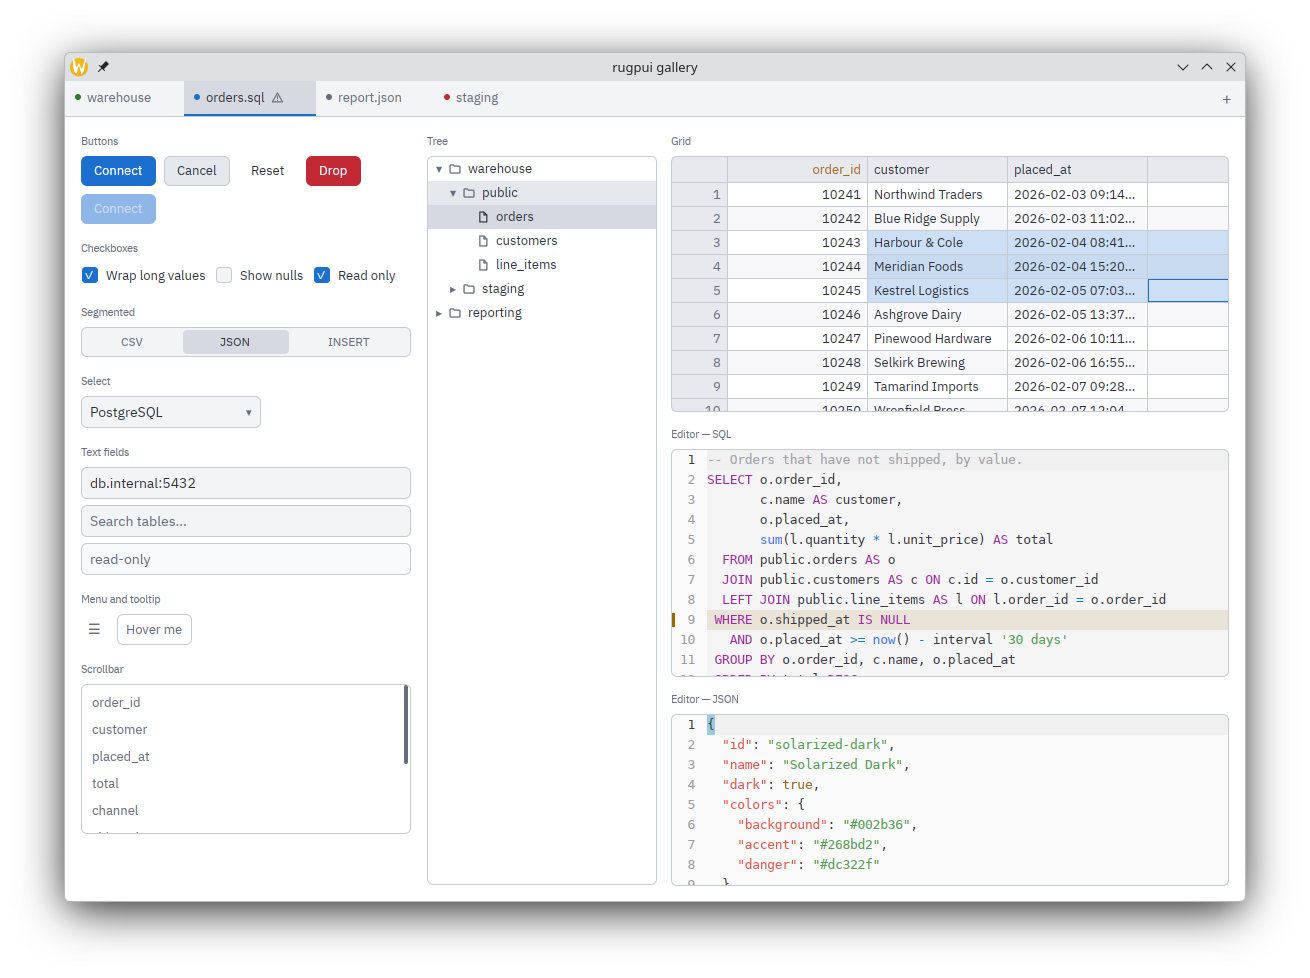
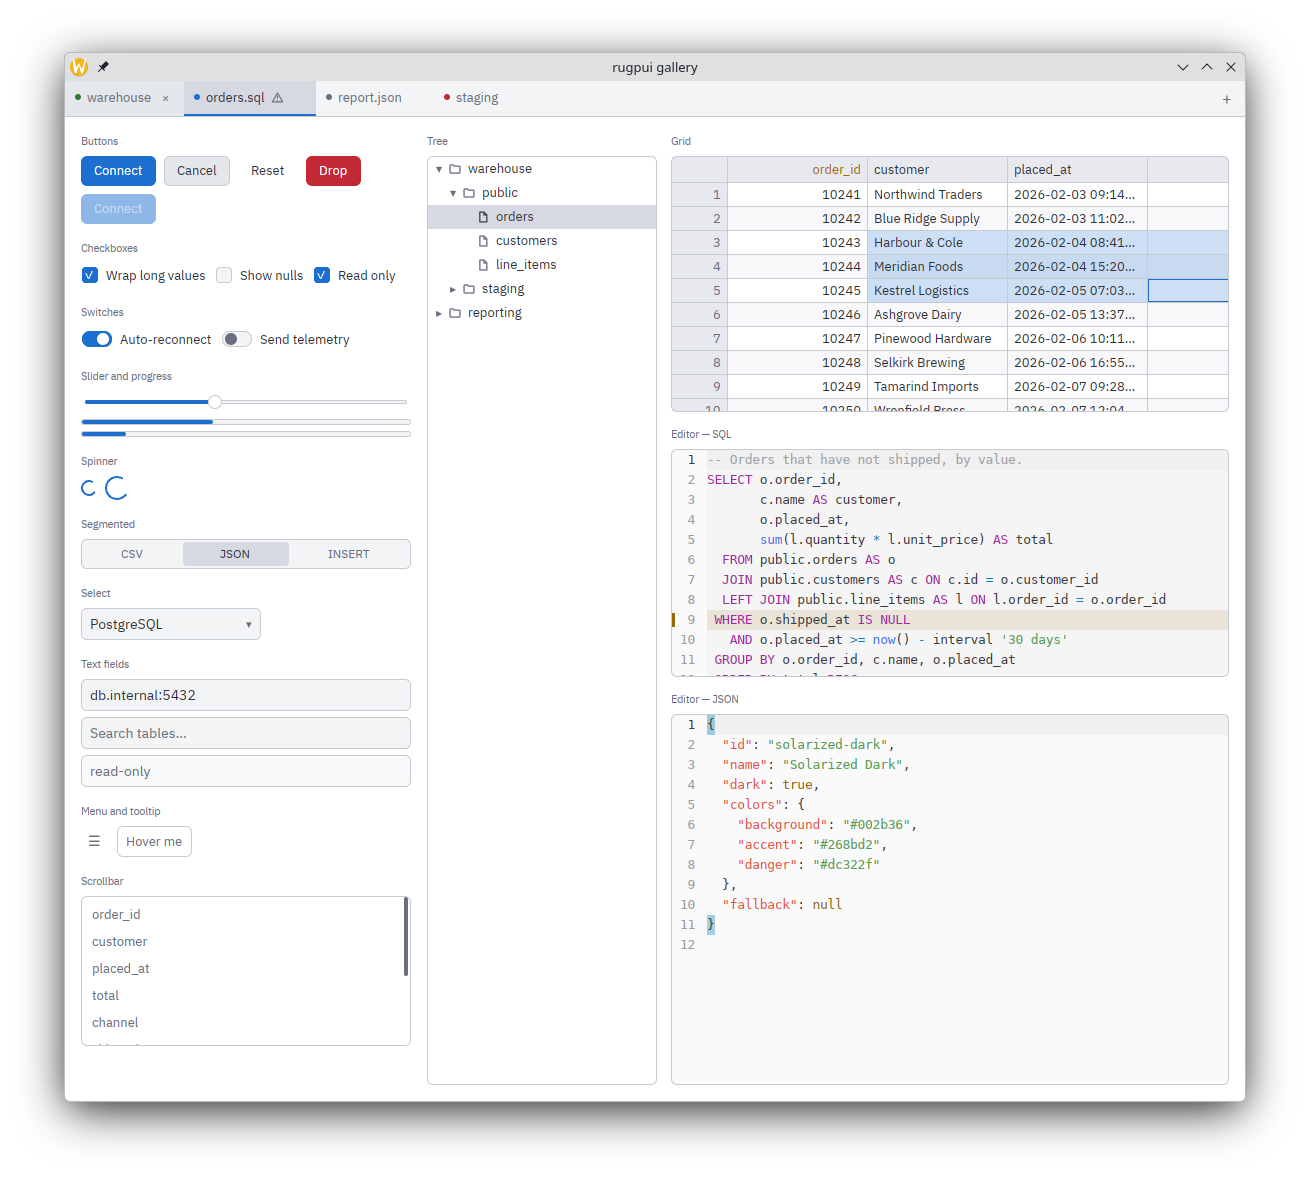
Show the new widgets in the gallery and retake the screenshots

diff --git a/crates/rugpui-gallery/src/main.rs b/crates/rugpui-gallery/src/main.rs
@@ -20,9 +20,10 @@ use gpui::{
     SharedString, TitlebarOptions, Window, WindowBounds, WindowOptions, div, prelude::*, px, size,
 };
 use rugpui::{
-    Button, ButtonVariant, Checkbox, DraggedThumb, EditorTheme, MenuButton, MenuEntry, Scrollbar,
-    ScrollbarAxis, Segmented, Select, TabBar, TabItem, TabStatus, TextInput, Theme, TreeView,
-    scroll_to, set_editor_theme, set_theme, theme, tooltip_label,
+    Button, ButtonVariant, Checkbox, DraggedThumb, EditorTheme, MenuButton, MenuEntry, ProgressBar,
+    Scrollbar, ScrollbarAxis, Segmented, Select, Slider, Spinner, Switch, TabBar, TabItem,
+    TabStatus, TextInput, Theme, TreeView, scroll_to, set_editor_theme, set_theme, theme,
+    tooltip_label,
 };
 use rugpui_editor::{EditorView, MarkKind, highlighter_for_extension};
 use rugpui_grid::GridView;
@@ -164,7 +165,7 @@ fn main() {
             WindowOptions {
                 window_bounds: Some(WindowBounds::Windowed(Bounds::centered(
                     None,
-                    size(px(1180.), px(820.)),
+                    size(px(1180.), px(1020.)),
                     cx,
                 ))),
                 titlebar: Some(TitlebarOptions {
@@ -192,6 +193,10 @@ struct Gallery {
     checked: bool,
     /// Which segment of the segmented control is picked.
     segment: usize,
+    /// Whether the first switch is on.
+    switch_on: bool,
+    /// The slider's value, also what the progress bar beside it shows.
+    amount: f32,
     /// The dropdown's choice, and whether its list is showing.
     choice: SharedString,
     select_open: bool,
@@ -267,6 +272,8 @@ impl Gallery {
             tab: 1,
             checked: true,
             segment: 1,
+            switch_on: true,
+            amount: 0.4,
             choice: "PostgreSQL".into(),
             select_open: false,
             menu_open: false,
@@ -338,6 +345,44 @@ impl Gallery {
                 )
                 .child(Checkbox::new("nulls", "Show nulls"))
                 .child(Checkbox::new("locked-check", "Read only").checked(true)),
+        );
+
+        let switches = section("Switches", &palette).child(
+            row()
+                .child(
+                    Switch::new("wifi", "Auto-reconnect")
+                        .checked(self.switch_on)
+                        .on_toggle({
+                            let this = this.clone();
+                            move |value, _window, cx| {
+                                this.update(cx, |gallery, cx| {
+                                    gallery.switch_on = value;
+                                    cx.notify();
+                                });
+                            }
+                        }),
+                )
+                .child(Switch::new("telemetry", "Send telemetry")),
+        );
+
+        let amount = self.amount;
+        let slider = section("Slider and progress", &palette)
+            .child(Slider::new("amount").value(amount).step(0.05).on_change({
+                let this = this.clone();
+                move |value, _window, cx| {
+                    this.update(cx, |gallery, cx| {
+                        gallery.amount = value;
+                        cx.notify();
+                    });
+                }
+            }))
+            .child(ProgressBar::new("amount-progress").fraction(amount))
+            .child(ProgressBar::new("loading").indeterminate());
+
+        let spinners = section("Spinner", &palette).child(
+            row()
+                .child(Spinner::new("spinner-small"))
+                .child(Spinner::new("spinner-large").size(px(24.))),
         );
 
         let segmented = section("Segmented", &palette).child(
@@ -436,6 +481,9 @@ impl Gallery {
             .gap(px(16.))
             .child(buttons)
             .child(checkboxes)
+            .child(switches)
+            .child(slider)
+            .child(spinners)
             .child(segmented)
             .child(select)
             .child(fields)
@@ -497,8 +545,8 @@ impl Gallery {
     fn data(&self, cx: &mut Context<Self>) -> Div {
         let palette = theme(cx);
 
-        // The one section that fills whatever height is left, so that the
-        // column does not end in a band of nothing.
+        // Fills whatever height is left in its column, so that the column does
+        // not end in a band of nothing.
         let tree = section("Tree", &palette)
             .flex_1()
             .min_h_0()
@@ -515,9 +563,12 @@ impl Gallery {
                 .child(self.sql.clone()),
         );
 
-        let json = section("Editor — JSON", &palette).child(
+        // Like the tree, this one takes whatever height is left in its column,
+        // so neither column ends in a band of nothing.
+        let json = section("Editor — JSON", &palette).flex_1().min_h_0().child(
             framed(&palette)
-                .h(px(172.))
+                .flex_1()
+                .min_h(px(172.))
                 .font_family(self.mono.clone())
                 .text_size(px(12.5))
                 .child(self.json.clone()),

diff --git a/README.md b/README.md
@@ -23,7 +23,7 @@ Every widget in this repository, in one window, in the two default palettes:
 Run it yourself with `cargo run -p rugpui-gallery -- --theme light`; `--theme`
 takes any of the six built-in palettes (`dark`, `light`, `solarized-dark`,
 `solarized-light`, `gruvbox-dark`, `dracula`) and picks the matching editor
-palette with it. The screenshots above are that window captured at 1180×820 in
+palette with it. The screenshots above are that window captured at 1180×1020 in
 `dark` and in `light` — regenerate them by running the gallery in each and
 saving the window to `docs/screenshots/gallery-<theme>.png`.
 
@@ -31,7 +31,7 @@ saving the window to `docs/screenshots/gallery-<theme>.png`.
 
 | crate | what it is |
 |---|---|
-| [`rugpui`](crates/rugpui) | The widget kit: theme and editor-theme palettes and their file store, text input, buttons, checkboxes, segmented controls, tabs, dropdown menus, selects, palette pickers, tooltips, modals, overlay scrollbars, lazily filled trees, and the caption buttons of a self-drawn title bar. |
+| [`rugpui`](crates/rugpui) | The widget kit: theme and editor-theme palettes and their file store, text input, buttons, checkboxes, switches, segmented controls, sliders, progress bars, busy spinners, tabs, dropdown menus, selects, palette pickers, tooltips, modals, overlay scrollbars, lazily filled trees, and the caption buttons of a self-drawn title bar. |
 | [`rugpui-grid`](crates/rugpui-grid) | A virtualised result grid. A million rows scroll without a stutter, null is not the empty string, and the rows arrive through a `GridSource` the host implements — so the grid can be pointed at a query result, a `DESCRIBE`, a plan or a diff. |
 | [`rugpui-editor`](crates/rugpui-editor) | A code editor: a rope, a pluggable per-line highlighter with an incremental cache, and an element that shapes only the visible lines. Ships base lexers for eighteen languages — SQL, Java, XML/HTML, PHP, the seven configuration formats a file panel reaches every day, and a C-like table for the rest — with a registry that picks one from a file name, a `#!` line or a language the host defined in a YAML file (`custom-syntax`). Composes any second grammar the host supplies over one of them. |
 | [`rugpui-shell`](crates/rugpui-shell) | The layer *above* the widgets: a window that draws its own title bar, a self-updater that replaces the installed copy with the one GitHub published, the about and update dialogs, a split-pane tree, an editor for a palette, and the pieces a settings form is built out of. Knows nothing about any application — everything specific to one is injected. |
